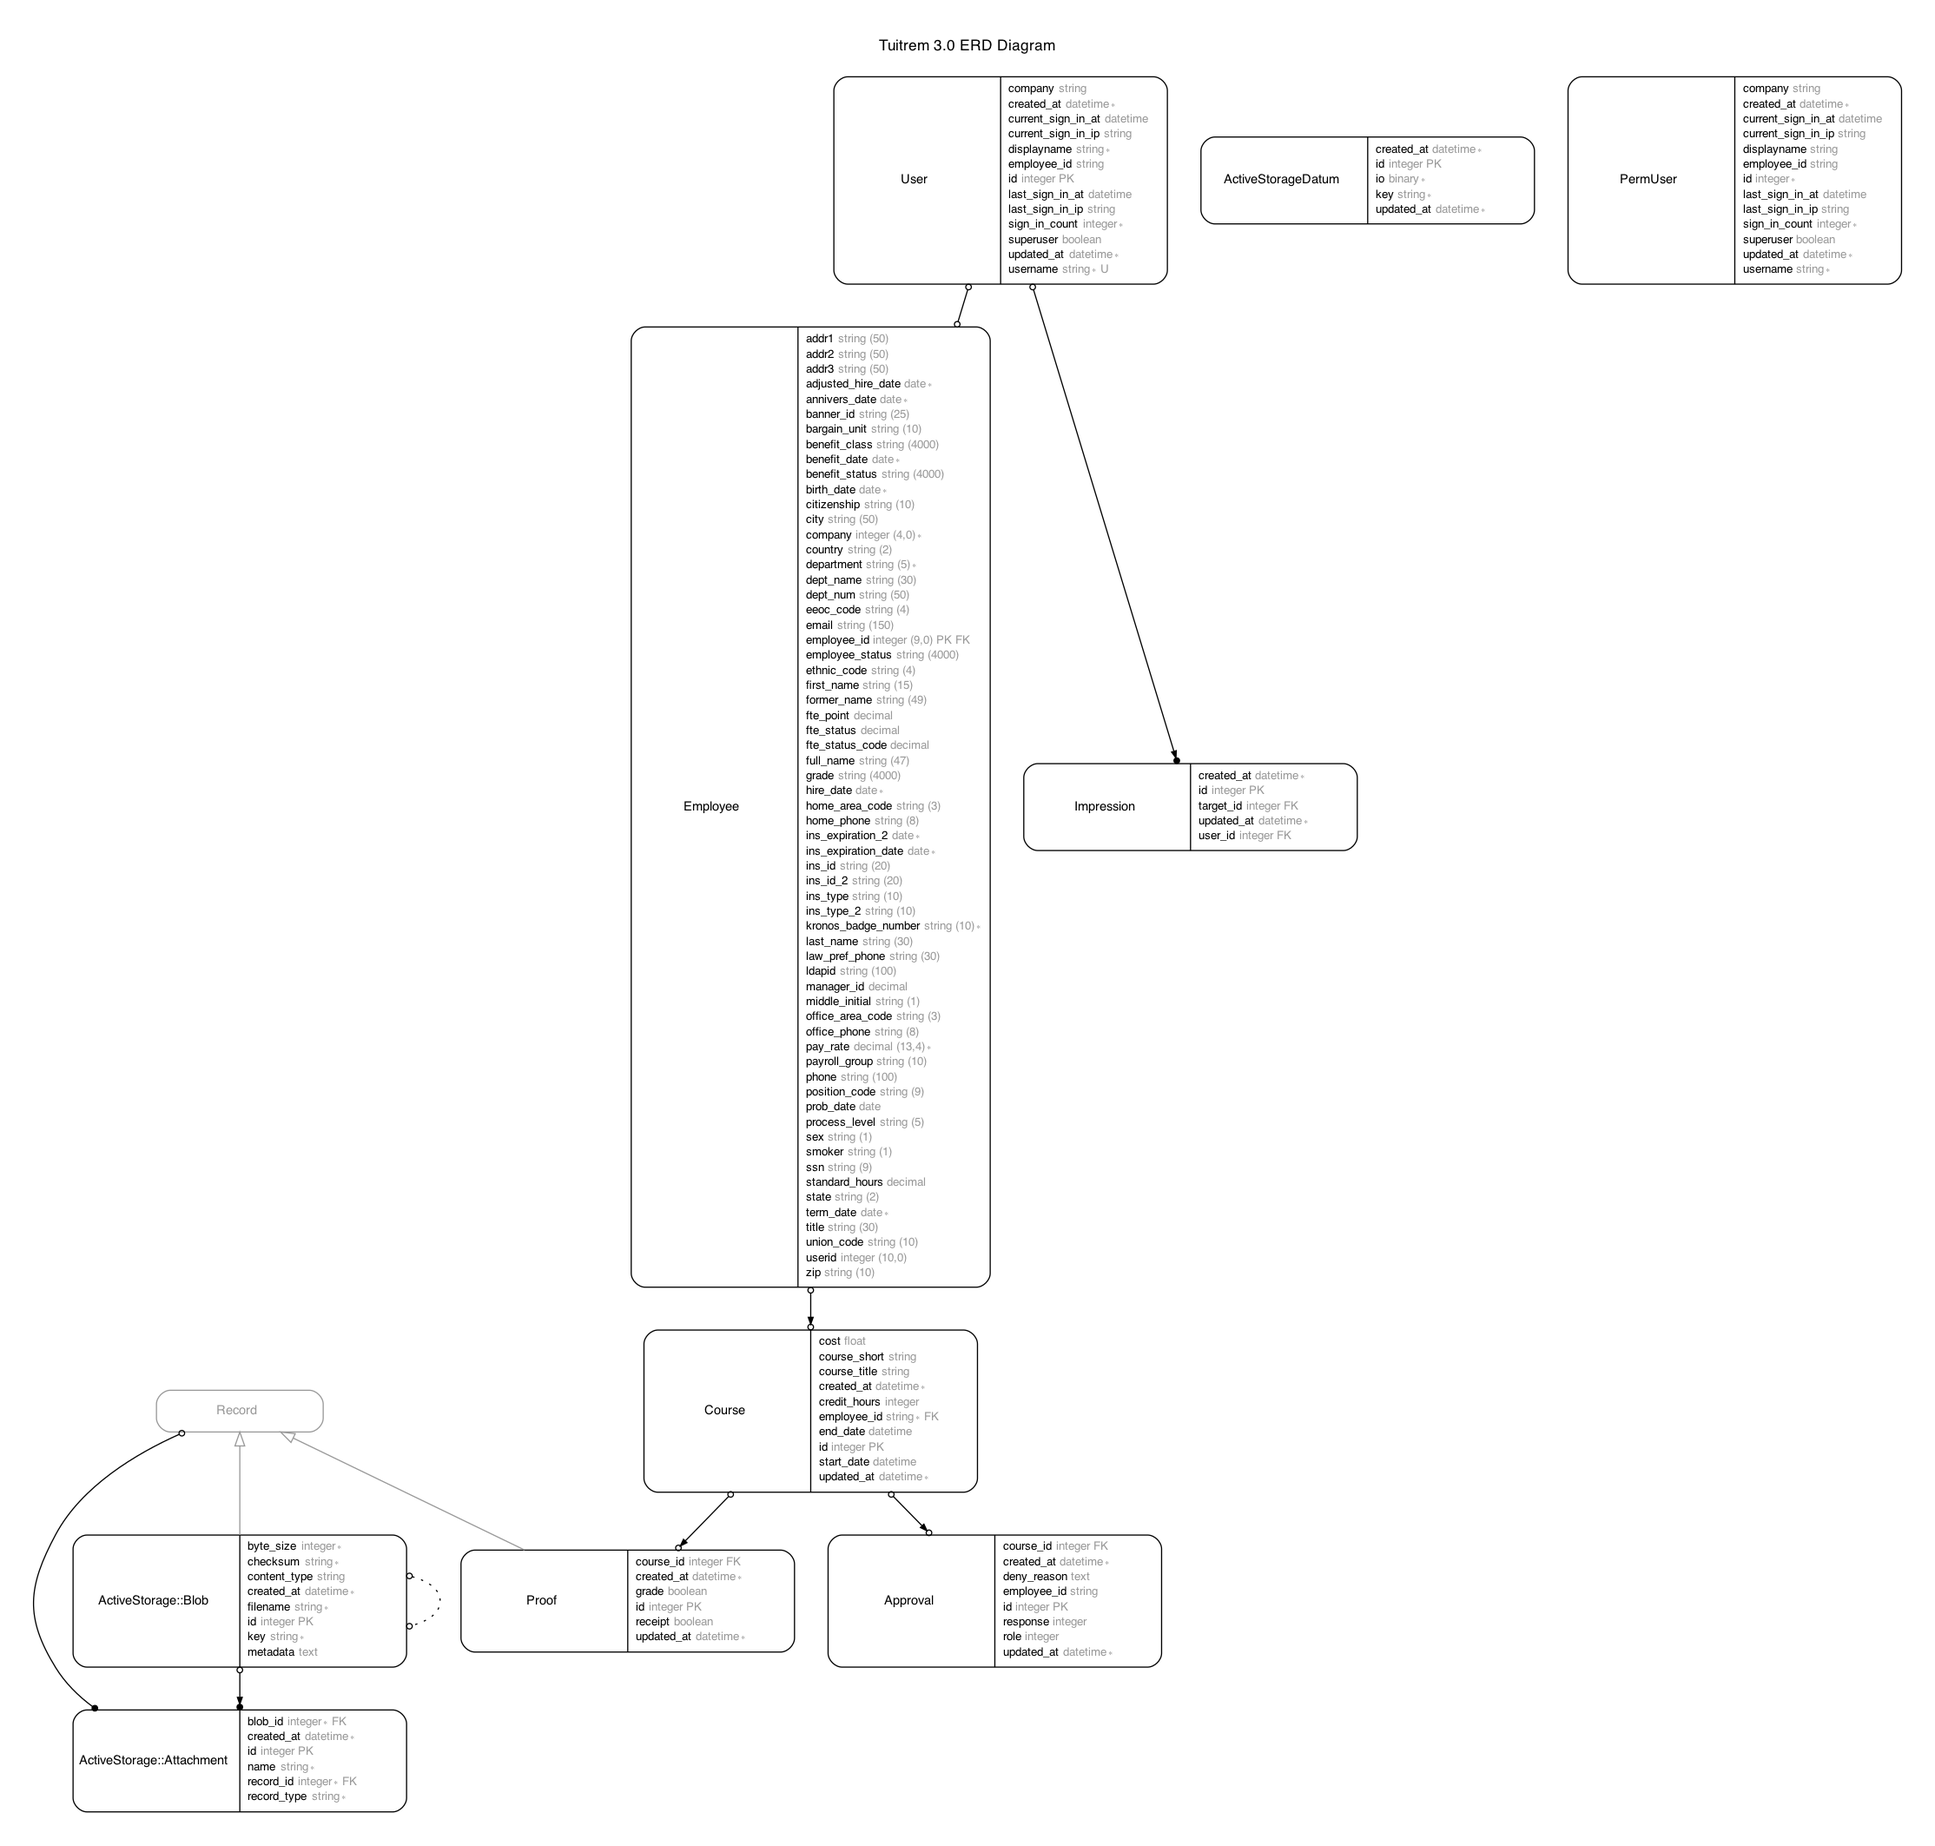
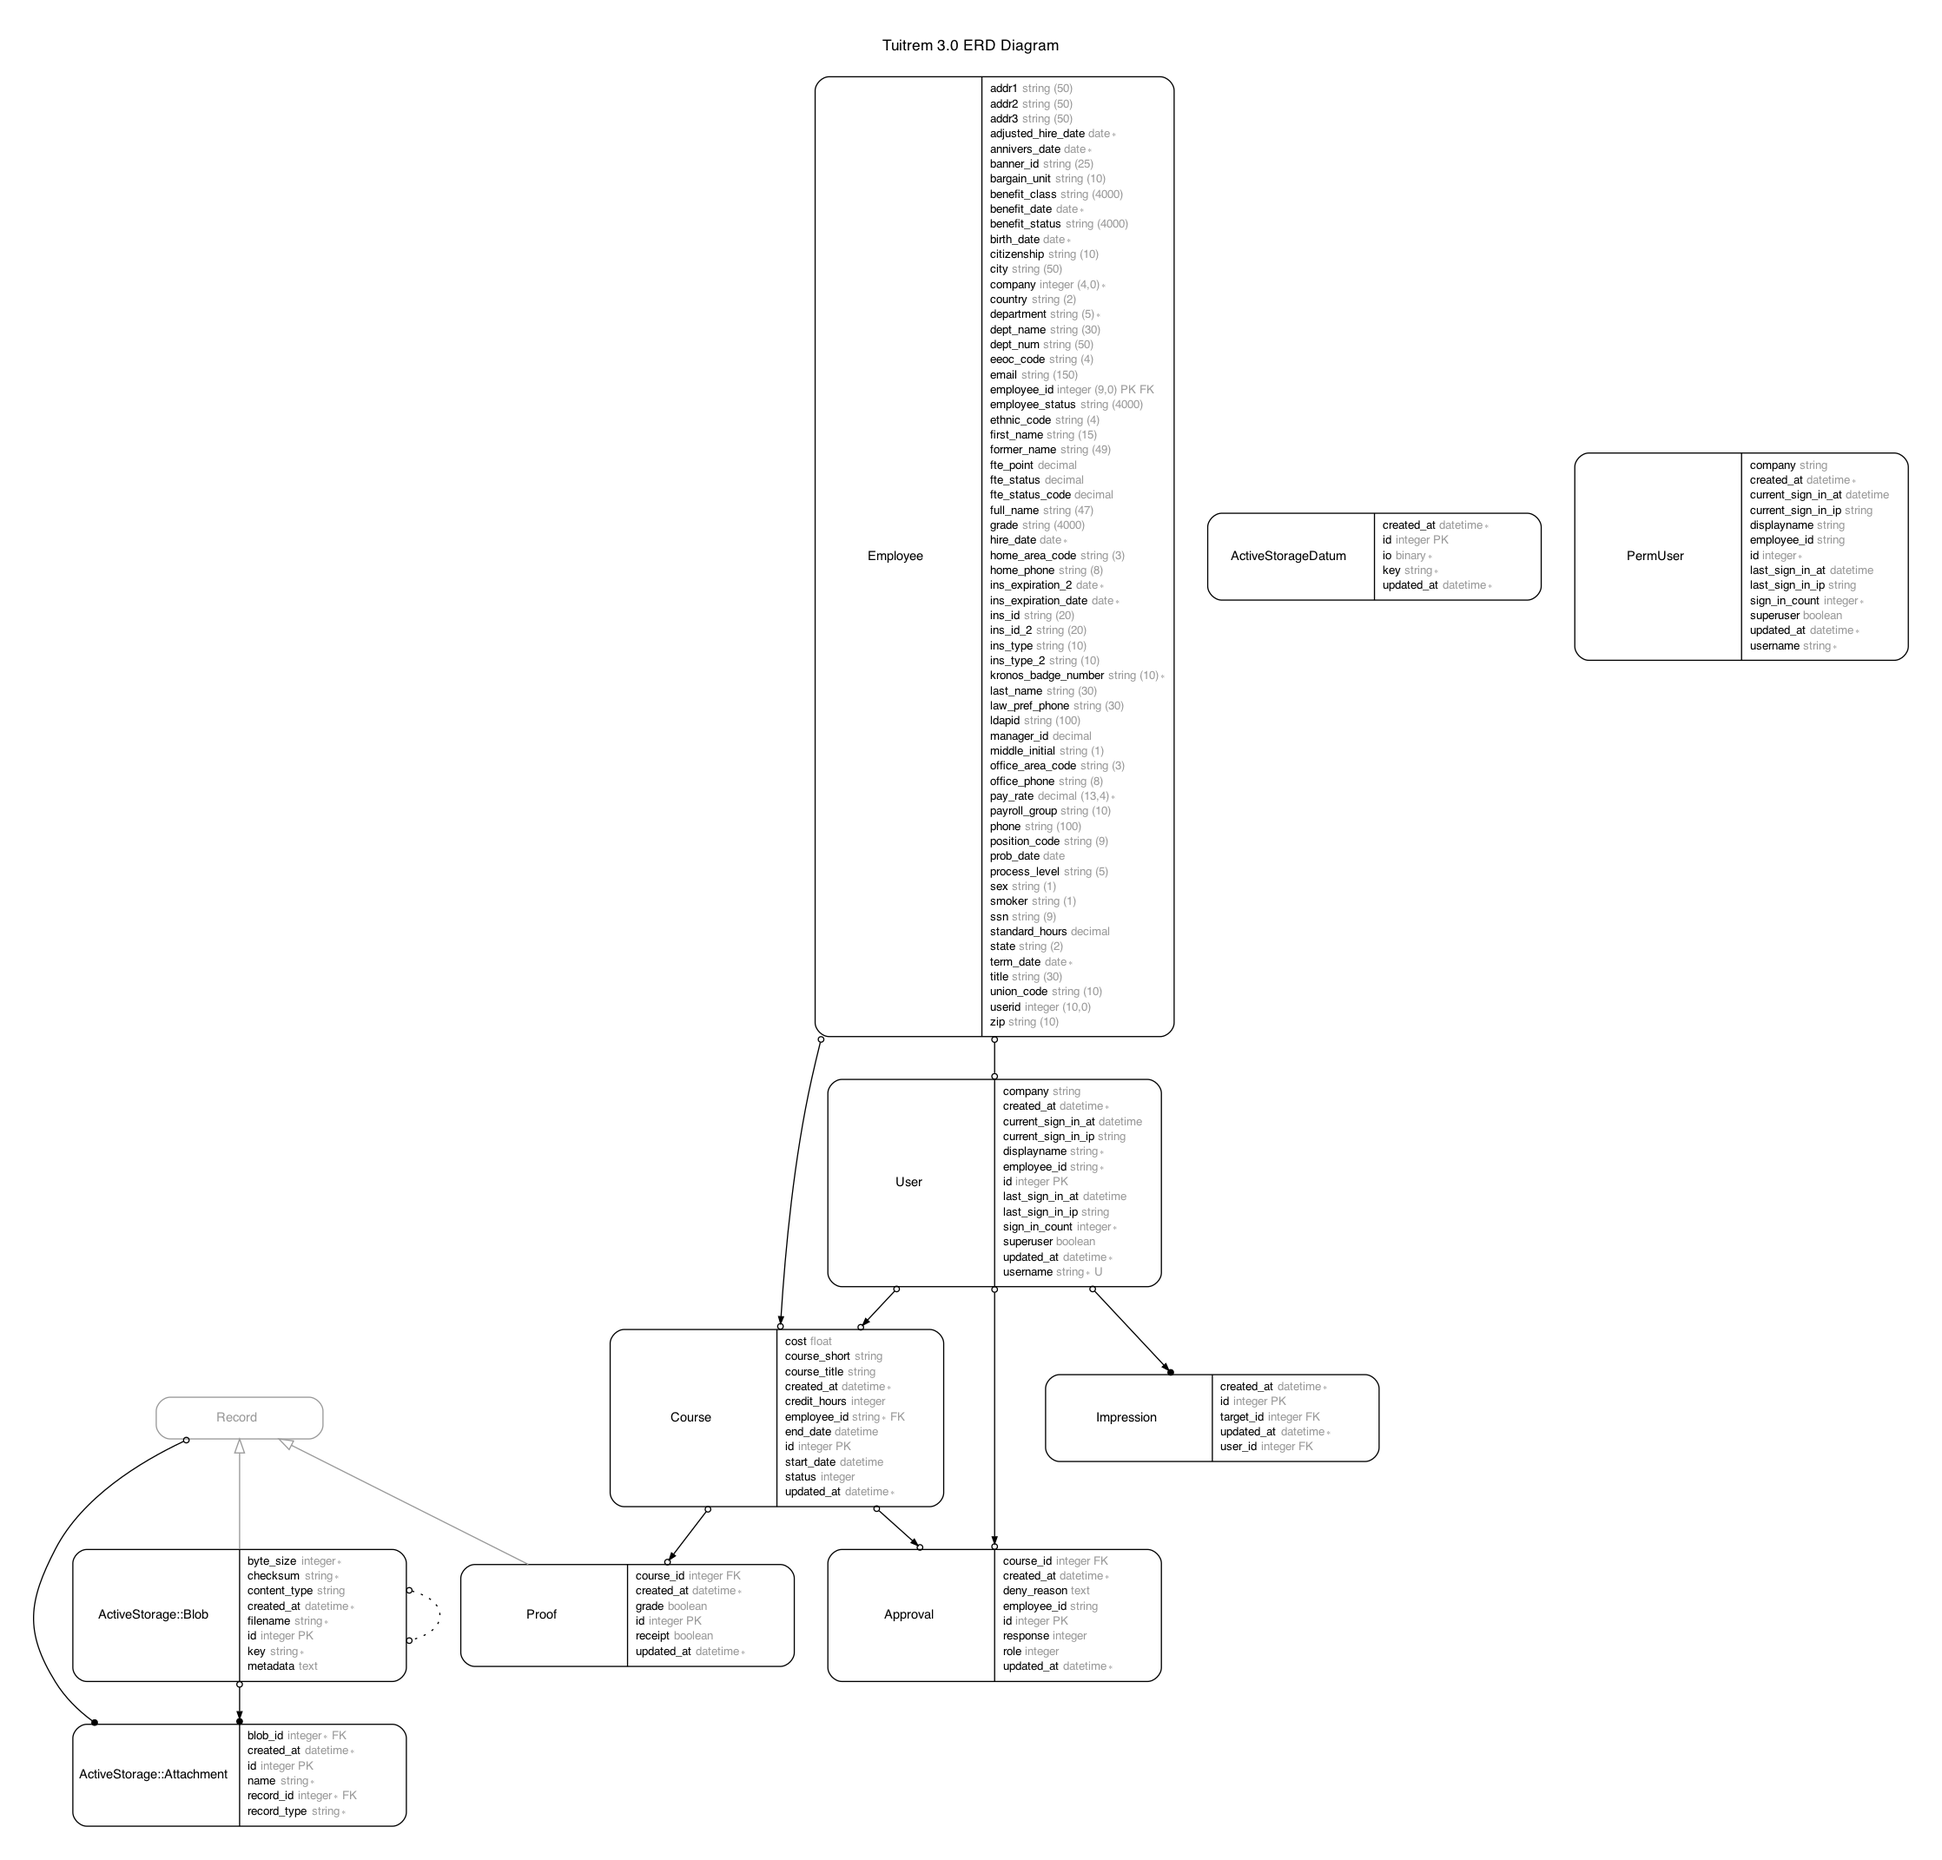
Implements #15 status for course reimbursement requests.

diff --git a/app/controllers/courses_controller.rb b/app/controllers/courses_controller.rb
@@ -13,7 +13,7 @@ class CoursesController < ApplicationController
 
   # GET /courses/new
   def new
-    @course = Course.new(employee_id: current_user.employee_id)
+    @course = Course.new(employee_id: current_user.employee_id, status: 'draft')
   end
 
   # GET /courses/1/edit
@@ -55,6 +55,6 @@ class CoursesController < ApplicationController
 
   # Only allow a trusted parameter "white list" through.
   def course_params
-    params.require(:course).permit(:employee_id, :start_date, :end_date, :course_title, :course_short, :credit_hours, :cost)
+    params.require(:course).permit(:employee_id, :start_date, :end_date, :course_title, :course_short, :credit_hours, :cost, :status)
   end
 end

diff --git a/db/schema.rb b/db/schema.rb
@@ -10,7 +10,7 @@
 #
 # It's strongly recommended that you check this file into your version control system.
 
-ActiveRecord::Schema.define(version: 2021_02_03_220109) do
+ActiveRecord::Schema.define(version: 2021_02_10_004000) do
 
   create_table "active_storage_attachments", force: :cascade do |t|
     t.string "name", null: false
@@ -62,6 +62,7 @@ ActiveRecord::Schema.define(version: 2021_02_03_220109) do
     t.float "cost"
     t.datetime "created_at", null: false
     t.datetime "updated_at", null: false
+    t.integer "status"
   end
 
   create_table "impressions", force: :cascade do |t|

diff --git a/app/models/course.rb b/app/models/course.rb
@@ -9,6 +9,7 @@
 #  credit_hours :integer
 #  end_date     :datetime
 #  start_date   :datetime
+#  status       :integer
 #  created_at   :datetime         not null
 #  updated_at   :datetime         not null
 #  employee_id  :string
@@ -21,7 +22,7 @@ class Course < ApplicationRecord
   has_many    :approvals
   has_many    :proofs
 
-
+  enum status: { draft: 0, denied: 1, approved: 2, withdrawn: 3 }
   # == Validations ====================================
   validates :employee_id, presence: true
 

diff --git a/app/models/approval.rb b/app/models/approval.rb
@@ -16,9 +16,11 @@
 #  index_approvals_on_course_id  (course_id)
 #
 class Approval < ApplicationRecord
+  # == Relationships ==================================
   belongs_to :course
   belongs_to :approver, class_name: 'User', primary_key: :employee_id, foreign_key: :employee_id
   belongs_to :user, primary_key: :employee_id, foreign_key: :employee_id
+
   enum role:     { applicant: 0, manager: 1, human_resources: 2, auto_approval: 3 }
   enum response: { denied: 0, approved: 1}
 

diff --git a/spec/factories/courses.rb b/spec/factories/courses.rb
@@ -9,6 +9,7 @@
 #  credit_hours :integer
 #  end_date     :datetime
 #  start_date   :datetime
+#  status       :integer
 #  created_at   :datetime         not null
 #  updated_at   :datetime         not null
 #  employee_id  :string

diff --git a/spec/models/course_spec.rb b/spec/models/course_spec.rb
@@ -9,6 +9,7 @@
 #  credit_hours :integer
 #  end_date     :datetime
 #  start_date   :datetime
+#  status       :integer
 #  created_at   :datetime         not null
 #  updated_at   :datetime         not null
 #  employee_id  :string

diff --git a/db/migrate/20210210004000_add_status_to_course.rb b/db/migrate/20210210004000_add_status_to_course.rb
@@ -1,0 +1,5 @@
+class AddStatusToCourse < ActiveRecord::Migration[5.2]
+  def change
+    add_column :courses, :status, :integer
+  end
+end
